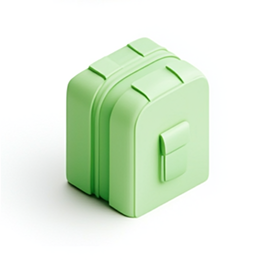
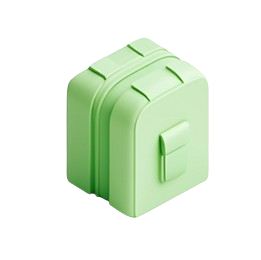
✨ 초기 배포 준비

diff --git a/src/Recommendation.js b/src/Recommendation.js
@@ -1,50 +1,76 @@
 import React, { useState, useEffect } from 'react';
 import './CSS/Recommendation.css';
 import MapView from './MapView';
-import mamukImg from './images/마묵.png';
 import { DragDropContext, Droppable, Draggable } from '@hello-pangea/dnd';
-
 
 const GEO_API_KEY = 'e3ab1ad7ef71ccdc312fea158c553d0a';
 
 const geocodeAddress = async (address) => {
-  const res = await fetch(
-    `https://dapi.kakao.com/v2/local/search/address.json?query=${encodeURIComponent(address)}`,
-    {
-      headers: {
-        Authorization: `KakaoAK ${GEO_API_KEY}`,
-      },
+  try {
+    const res = await fetch(
+      `https://dapi.kakao.com/v2/local/search/address.json?query=${encodeURIComponent(address)}`,
+      {
+        headers: {
+          Authorization: `KakaoAK ${GEO_API_KEY}`,
+        },
+      }
+    );
+    const data = await res.json();
+
+    if (data.documents && data.documents.length > 0) {
+      const loc = data.documents[0];
+      return { lat: parseFloat(loc.y), lng: parseFloat(loc.x) };
+    } else {
+      console.warn(`[지오코딩 실패] 주소를 찾을 수 없음: ${address}`);
+      return null;
     }
-  );
-  const data = await res.json();
-  const loc = data.documents[0];
-  return loc ? { lat: parseFloat(loc.y), lng: parseFloat(loc.x) } : null;
+  } catch (error) {
+    console.error(`[지오코딩 에러] 주소: ${address}`, error);
+    return null;
+  }
 };
 
 export default function RecommendationPage() {
-  const [categories, setCategories] = useState(['업무공간', '식당', '프로그램']);
+  const [categories, setCategories] = useState(['숙소', '업무공간', '식당', '프로그램']);
+  const [selectedCategory, setSelectedCategory] = useState('숙소');
   const [selectedPlaces, setSelectedPlaces] = useState([]);
-  const [markers, setMarkers] = useState([]);
+  const [allMarkers, setAllMarkers] = useState([]);
   const [placeInfo, setPlaceInfo] = useState(null);
+  const [imageExists, setImageExists] = useState(true);
+
+  const categoryMap = {
+    '숙소': 'stay',
+    '업무공간': 'cafe',
+    '식당': 'food',
+    '프로그램': 'program',
+  };
 
   useEffect(() => {
     const fetchMarkers = async () => {
       const res = await fetch(`${process.env.PUBLIC_URL}/data/chungbuk_combined_cleaned.json`);
       const data = await res.json();
-      const limited = data.slice(0, 100);
 
       const resolved = await Promise.all(
-        limited.map(async ({ name, address, time, category, url }) => {
+        data.map(async ({ name, address, time, category, url }) => {
           const coord = await geocodeAddress(address);
           return coord ? { name, address, time, category, url, ...coord } : null;
         })
       );
 
-      setMarkers(resolved.filter(Boolean));
+      setAllMarkers(resolved.filter(Boolean));
     };
 
     fetchMarkers();
   }, []);
+
+  useEffect(() => {
+    if (placeInfo) {
+      const imagePath = `${process.env.PUBLIC_URL}/images/${placeInfo.name}.jpg`;
+      fetch(imagePath)
+        .then((res) => setImageExists(res.ok))
+        .catch(() => setImageExists(false));
+    }
+  }, [placeInfo]);
 
   const handleMarkerClick = (place) => {
     setPlaceInfo(place);
@@ -58,12 +84,29 @@ export default function RecommendationPage() {
     setSelectedPlaces(newPlaces);
   };
 
+  const filteredMarkers = allMarkers.filter(
+    (marker) => marker.category === categoryMap[selectedCategory]
+  );
+
   return (
     <div className="page-wrapper">
       <header className="header_last">
         <div className="logo_last">놀슈</div>
         <div className="menu-icon-last">☰</div>
       </header>
+
+      {/* 카테고리 필터 버튼 */}
+      <div className="category-filter-buttons">
+        {categories.map((cat) => (
+          <button
+            key={cat}
+            onClick={() => setSelectedCategory(cat)}
+            className={selectedCategory === cat ? 'filter-btn active' : 'filter-btn'}
+          >
+            {cat}
+          </button>
+        ))}
+      </div>
 
       <DragDropContext onDragEnd={handleDragEnd}>
         <Droppable droppableId="category-tabs" direction="horizontal">
@@ -82,7 +125,7 @@ export default function RecommendationPage() {
                       >
                         {selected ? (
                           <>
-                            <img src={selected.image} alt={selected.name} />
+                            <img src={selected.image} alt={selected.name} className="tab-image" />
                             <div className="overlay">
                               <p>{selected.name}</p>
                               <span>🍀 {selected.address}</span>
@@ -92,18 +135,17 @@ export default function RecommendationPage() {
                               className="delete-btn"
                               onClick={() => {
                                 const newPlaces = [...selectedPlaces];
-                                newPlaces.splice(i, 1);
+                                newPlaces[i] = undefined;
                                 setSelectedPlaces(newPlaces);
-                                const newCats = [...categories];
-                                newCats.splice(i, 1);
-                                setCategories(newCats);
                               }}
                             >
                               ❌
                             </button>
                           </>
                         ) : (
-                          <div className="empty-card">{i + 1 < 10 ? `0${i + 1}` : i + 1} {label}</div>
+                          <div className="empty-card">
+                            {i + 1 < 10 ? `0${i + 1}` : i + 1} {label}
+                          </div>
                         )}
                       </div>
                     )}
@@ -131,7 +173,7 @@ export default function RecommendationPage() {
             latitude={36.6357}
             longitude={127.4917}
             zoom={9}
-            markers={markers}
+            markers={filteredMarkers}
             onMarkerClick={handleMarkerClick}
           />
         </div>
@@ -139,6 +181,16 @@ export default function RecommendationPage() {
         <div className="detail-card">
           {placeInfo ? (
             <>
+              {imageExists ? (
+                <img
+                  src={`${process.env.PUBLIC_URL}/images/${placeInfo.name}.jpg`}
+                  alt={placeInfo.name}
+                  className="place-image"
+                />
+              ) : (
+                <p>🖼 이미지가 없습니다</p>
+              )}
+
               <h3>{placeInfo.name}</h3>
               <p>🟢 {placeInfo.category}</p>
               <p>🍀 {placeInfo.address}</p>
@@ -155,14 +207,18 @@ export default function RecommendationPage() {
                 <button
                   className="select-button"
                   onClick={() => {
-                    const nextIndex = selectedPlaces.length;
-                    if (nextIndex < categories.length) {
+                    const nextIndex = selectedPlaces.findIndex((p) => p === undefined);
+                    const safeIndex = nextIndex !== -1 ? nextIndex : selectedPlaces.length;
+
+                    if (safeIndex < categories.length) {
                       const newPlace = {
                         name: placeInfo.name,
                         address: placeInfo.address,
-                        image: mamukImg,
+                        image: `${process.env.PUBLIC_URL}/images/${placeInfo.name}.jpg`,
                       };
-                      setSelectedPlaces([...selectedPlaces, newPlace]);
+                      const newPlaces = [...selectedPlaces];
+                      newPlaces[safeIndex] = newPlace;
+                      setSelectedPlaces(newPlaces);
                     } else {
                       alert('모든 카테고리 탭이 이미 선택되었습니다.');
                     }

diff --git a/src/CSS/Recommendation.css b/src/CSS/Recommendation.css
@@ -87,7 +87,7 @@
   min-width: 280px;
   border-radius: 10px;
   padding: 1rem;
-  box-shadow: 0 0 10px rgba(0, 0, 0, 0.1);
+  box-shadow: 0 0 10px rgba(243, 236, 236, 0.1);
 }
 
 .place-img {
@@ -154,6 +154,33 @@
   position: relative;
 }
 
+.place-image {
+  width: 100%;
+  height: 200px; /* 원하는 고정 높이 */
+  object-fit: cover; /* 네모 영역에 꽉 차게, 비율 유지하면서 자르기 */
+  border-radius: 12px;
+  margin-bottom: 10px;
+  background-color: #f2f2f2; /* 이미지 없을 때 대비 배경색 */
+}
+
+.category-filter-buttons {
+  display: flex;
+  justify-content: center;
+  margin: 10px 0;
+  gap: 10px;
+}
+.filter-btn {
+  padding: 8px 16px;
+  border: 1.5px solid #66cdaa;
+  background-color: #fff;
+  cursor: pointer;
+  border-radius: 8px;
+}
+.filter-btn.active {
+  background-color: #66cdaa;
+  color: white;
+  font-weight: bold;
+}
 
 
 /* ✅ 반응형 추가 */
